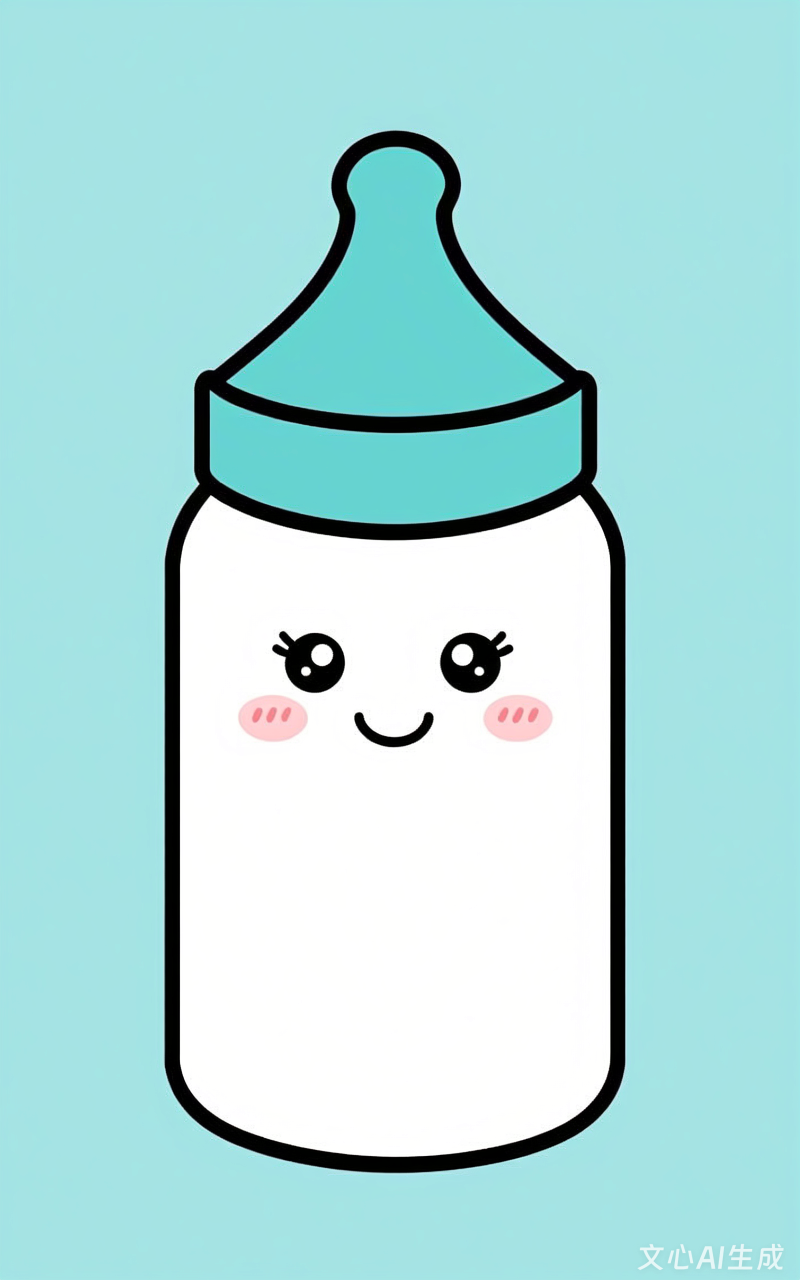
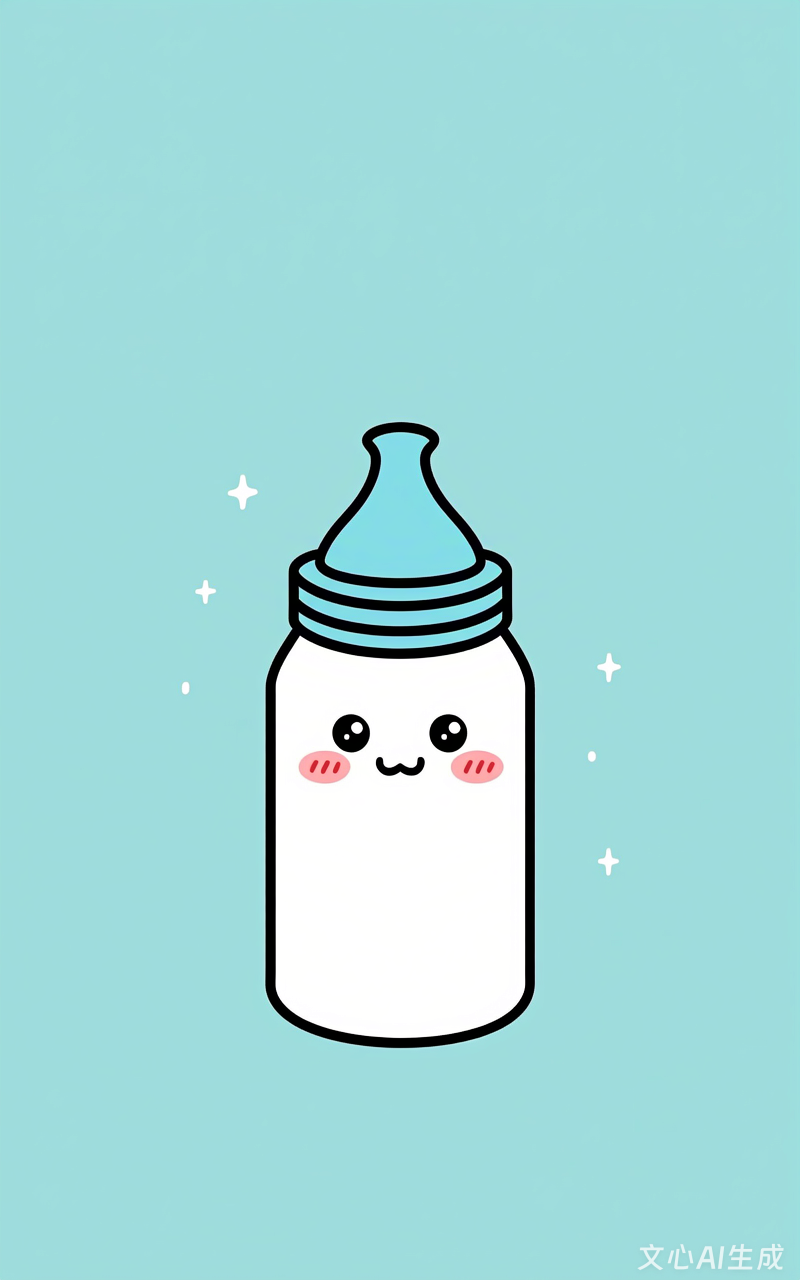
fix: app改名

diff --git a/src/pages/index/index.vue b/src/pages/index/index.vue
@@ -259,7 +259,7 @@ export default {
 
     loadRecentRecords() {
       const allRecords = getRecords()
-      console.log('%c allRecords', 'color:red; background:yellow;', allRecords)
+      // console.log('%c allRecords', 'color:red; background:yellow;', allRecords)
       const result = []
 
       // 遍历每个类型，获取最新的记录
